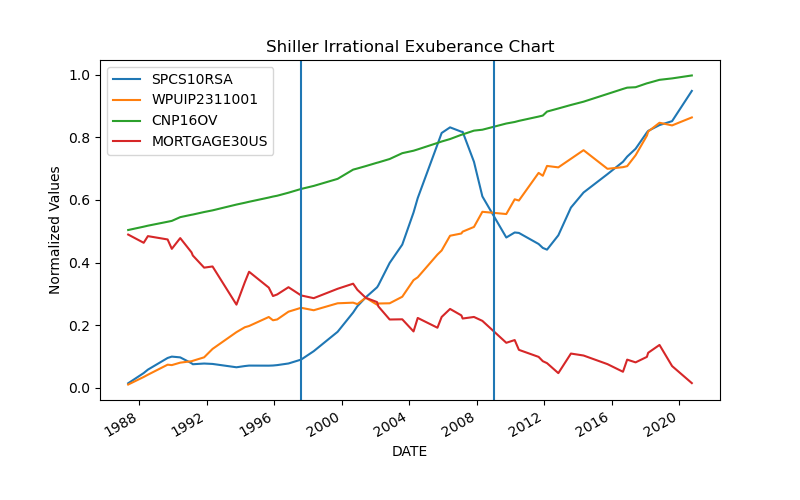
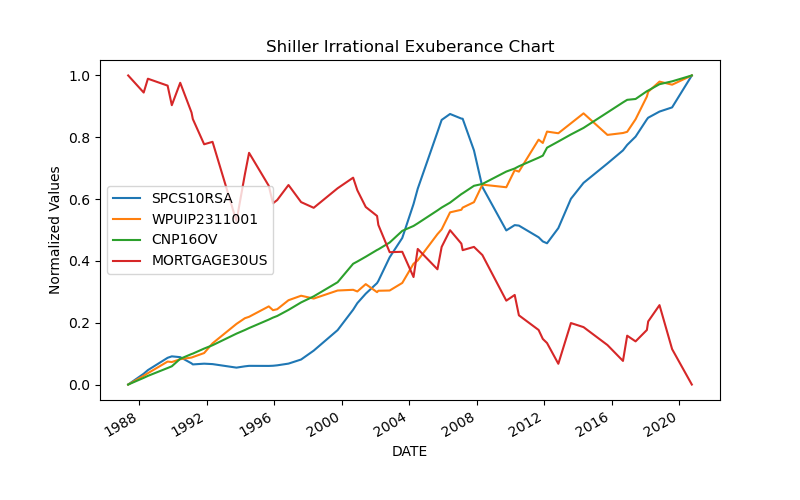
Updates

diff --git a/source/analyze_data/main.py b/source/analyze_data/main.py
@@ -414,17 +414,17 @@ def main():
 
     # ################       Recreate the Shiller Irrational Exuberance Chart      ################
 
-    sec_df = raw_df[["SPCS10RSA", "WPUIP2311001", "CNP16OV", "MORTGAGE30US"]]
-    norm_sec_df = util.normalize_columns(sec_df, sec_df.columns).dropna()
+    sec_df = raw_df[["SPCS10RSA", "WPUIP2311001", "CNP16OV", "MORTGAGE30US"]].dropna()
+    norm_sec_df = util.normalize_columns(sec_df, sec_df.columns)
 
     ts_fname = os.path.join(output_dir, "ShillerIrrationalExhuberanceChart.png")
     ts_fig = util.generate_ts_plot(
         norm_sec_df,
-        SPCS_BUBBLE_BEGIN,
-        SPCS_BUBBLE_END,
+        None,
+        None,
         "Normalized Values",
         "Shiller Irrational Exuberance Chart",
-        legend_loc="upper left",
+        legend_loc="best",
     )
     ts_fig.savefig(ts_fname, format="png")
 

diff --git a/source/analyze_data/util.py b/source/analyze_data/util.py
@@ -62,7 +62,7 @@ def normalize_dataframe(data_frame, column):
 
 
 def generate_ts_plot(
-    df, beg_line, end_line, p_ylabel, p_title, legend_loc="lower right"
+    df, beg_line, end_line, p_ylabel, p_title, legend_loc="lower right", yaxis_scale="linear"
 ):
     """ A function used to generate a scatterplot for housing prices/index data
             In:
@@ -85,6 +85,7 @@ def generate_ts_plot(
 
     df_plot.set_title(p_title)
     df_plot.set_ylabel(p_ylabel)
+    df_plot.set_yscale(yaxis_scale)
     df_plot.legend(loc=legend_loc)
     return df_plot.get_figure()
 
